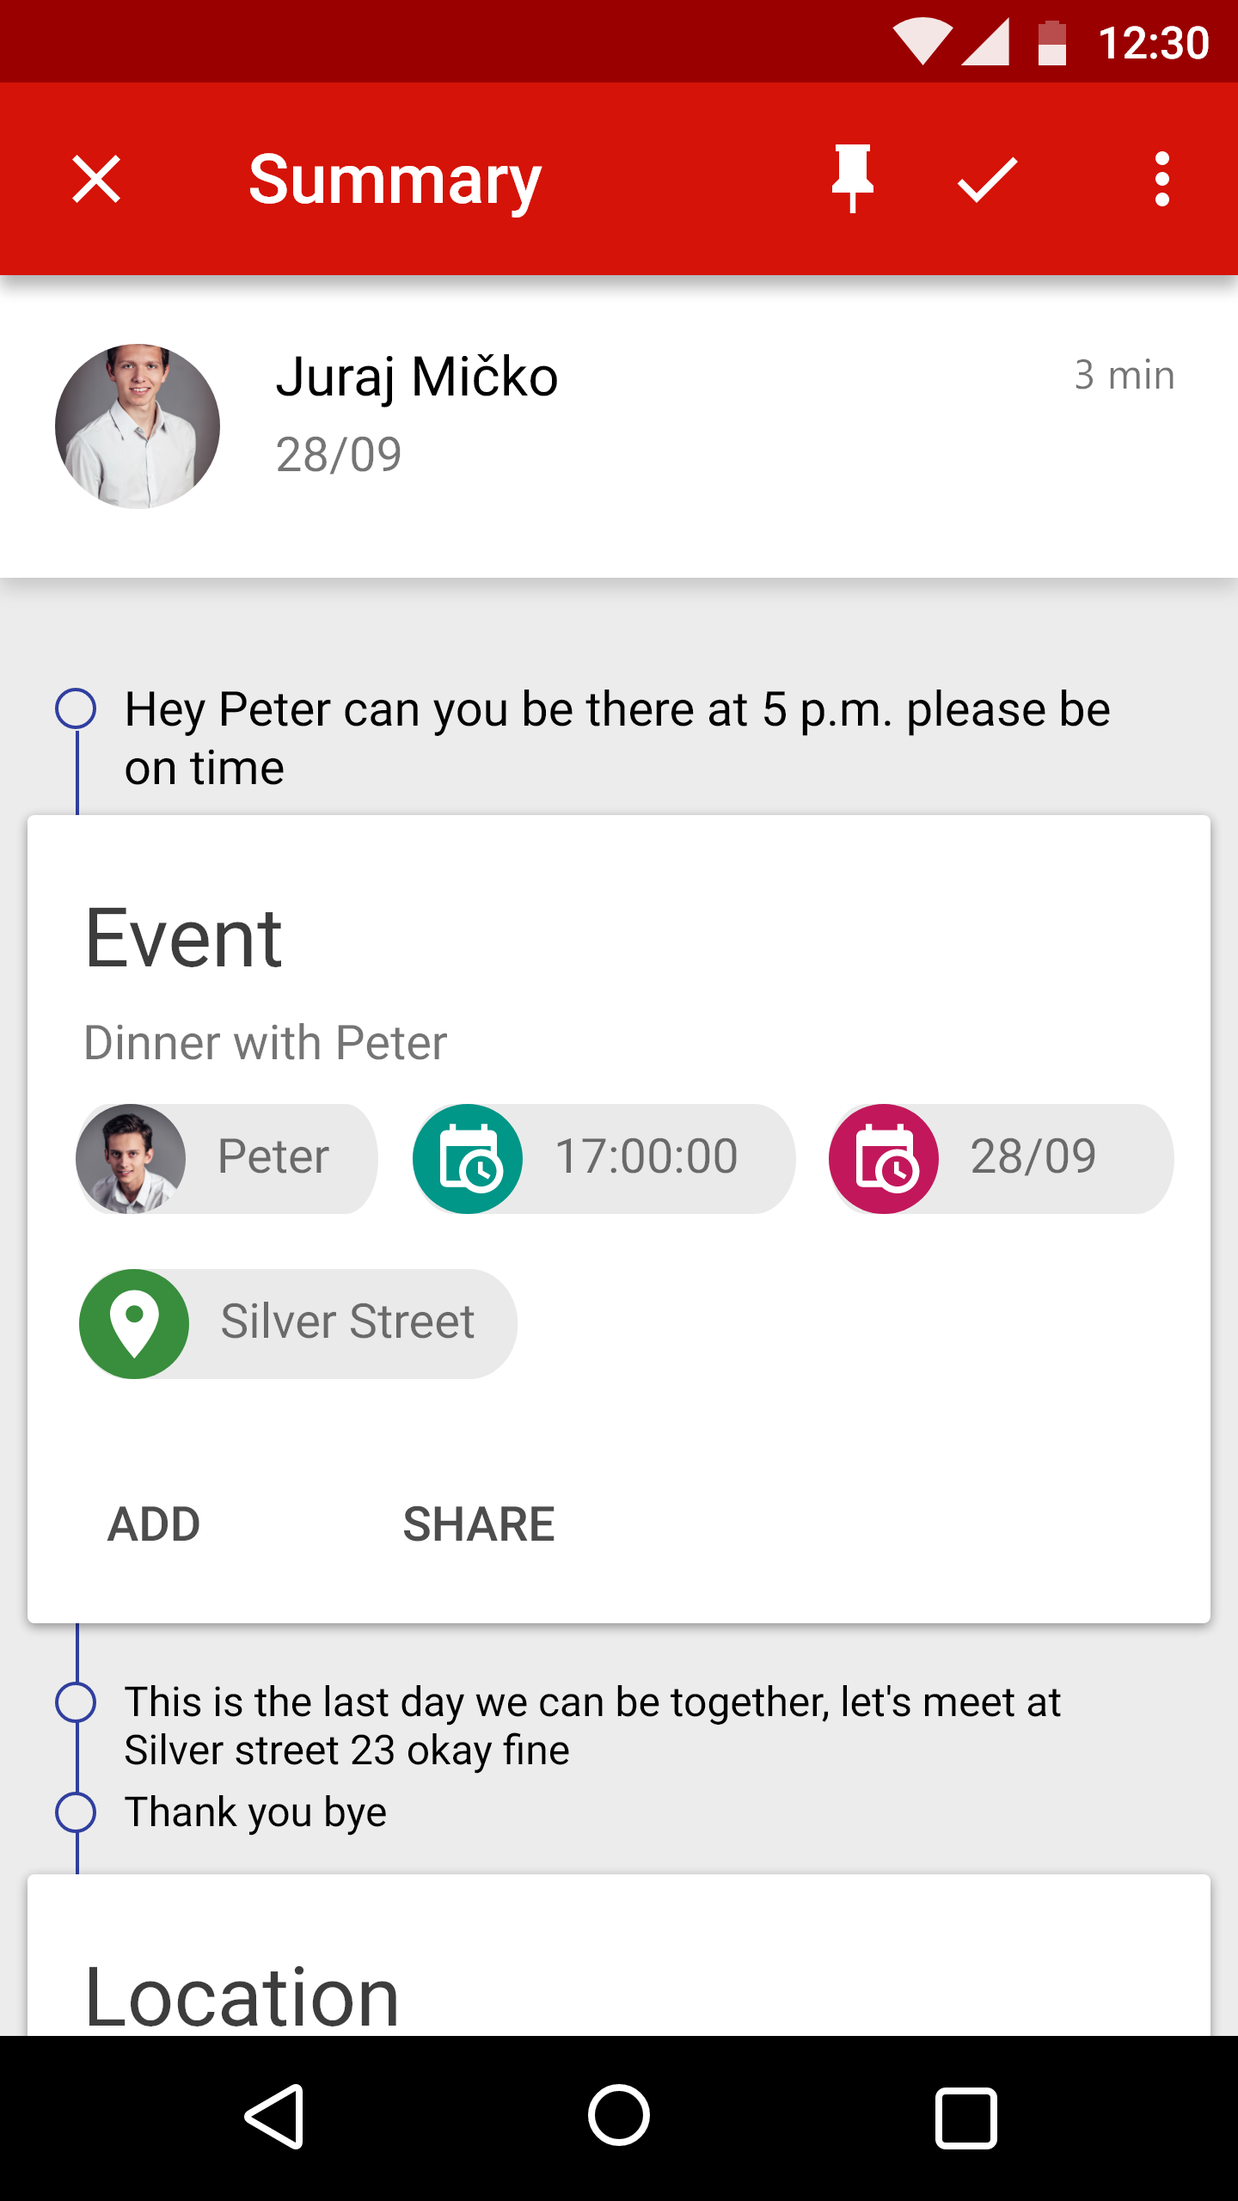
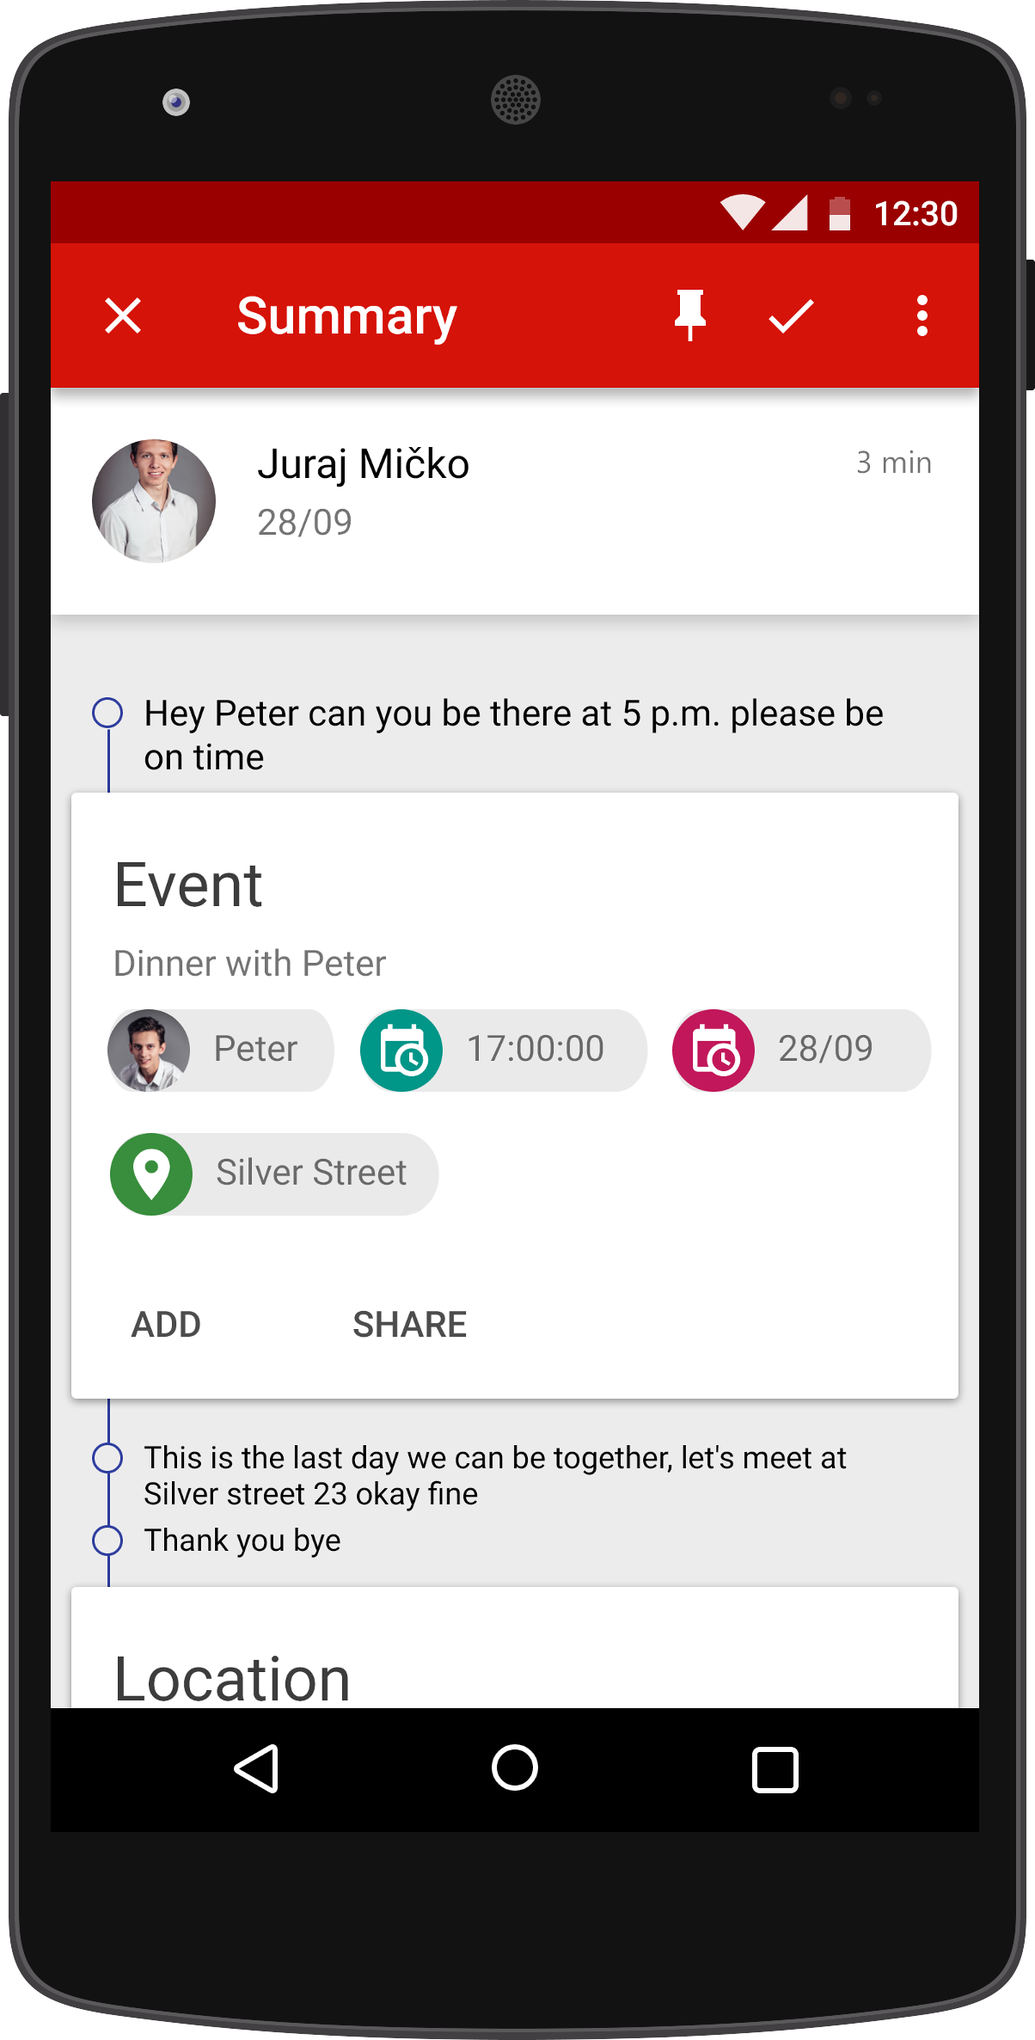
change color and replace activity mockup

diff --git a/css/new-age.min.css b/css/new-age.min.css
@@ -2,4 +2,4 @@
  * Start Bootstrap - New Age v4.0.0-beta (https://startbootstrap.com/template-overviews/new-age)
  * Copyright 2013-2017 Start Bootstrap
  * Licensed under MIT (https://github.com/BlackrockDigital/startbootstrap-new-age/blob/master/LICENSE)
- */body,html{width:100%;height:100%}body{font-family:Muli,Helvetica,Arial,sans-serif}a{color:#ff4c4c;-webkit-transition:all .35s;-moz-transition:all .35s;transition:all .35s}a:focus,a:hover{color:#ff1919}hr{max-width:100px;margin:25px auto 0;border-width:1px;border-color:rgba(34,34,34,.1)}hr.light{border-color:#fff}h1,h2,h3,h4,h5,h6{font-family:Catamaran,Helvetica,Arial,sans-serif;font-weight:200;letter-spacing:1px}p{font-size:18px;line-height:1.5;margin-bottom:20px}section{padding:100px 0}section h2{font-size:50px}#mainNav{border-color:rgba(34,34,34,.05);background-color:#fff;-webkit-transition:all .35s;-moz-transition:all .35s;transition:all .35s;font-family:Catamaran,Helvetica,Arial,sans-serif;font-weight:200;letter-spacing:1px}#mainNav .navbar-brand{color:#ff4c4c;font-family:Catamaran,Helvetica,Arial,sans-serif;font-weight:200;letter-spacing:1px}#mainNav .navbar-brand:focus,#mainNav .navbar-brand:hover{color:#ff1919}#mainNav .navbar-toggler{font-size:12px;padding:8px 10px;color:#222}#mainNav .navbar-nav>li>a{font-size:11px;font-family:Lato,Helvetica,Arial,sans-serif;letter-spacing:2px;text-transform:uppercase}#mainNav .navbar-nav>li>a.active{color:#ff4c4c!important;background-color:transparent}#mainNav .navbar-nav>li>a.active:hover{background-color:transparent}#mainNav .navbar-nav>li>a,#mainNav .navbar-nav>li>a:focus{color:#222}#mainNav .navbar-nav>li>a:focus:hover,#mainNav .navbar-nav>li>a:hover{color:#ff4c4c}@media (min-width:992px){#mainNav{border-color:transparent;background-color:transparent}#mainNav .navbar-brand{color:fade(white,70%)}#mainNav .navbar-brand:focus,#mainNav .navbar-brand:hover{color:#fff}#mainNav .navbar-nav>li>a,#mainNav .navbar-nav>li>a:focus{color:#fff}#mainNav .navbar-nav>li>a:focus:hover,#mainNav .navbar-nav>li>a:hover{color:#fff;font-weight:700}#mainNav.navbar-shrink{border-color:rgba(34,34,34,.1);background-color:#fff}#mainNav.navbar-shrink .navbar-brand{color:#222}#mainNav.navbar-shrink .navbar-brand:focus,#mainNav.navbar-shrink .navbar-brand:hover{color:#ff4c4c}#mainNav.navbar-shrink .navbar-nav>li>a,#mainNav.navbar-shrink .navbar-nav>li>a:focus{color:#222}#mainNav.navbar-shrink .navbar-nav>li>a:focus:hover,#mainNav.navbar-shrink .navbar-nav>li>a:hover{color:#ff4c4c}}header.masthead{position:relative;width:100%;padding-top:150px;padding-bottom:100px;color:#fff;background:#ff4c4c}header.masthead .header-content{max-width:500px;margin-bottom:100px;text-align:center}header.masthead .header-content h1{font-size:30px}header.masthead .device-container{max-width:325px;margin-right:auto;margin-left:auto}header.masthead .device-container .screen img{border-radius:3px}@media (min-width:992px){header.masthead{height:100vh;min-height:775px;padding-top:0;padding-bottom:0}header.masthead .header-content{margin-bottom:0;text-align:left}header.masthead .header-content h1{font-size:50px}header.masthead .device-container{max-width:325px}}section.download{position:relative;padding:150px 0}section.download h2{font-size:50px;margin-top:0}section.download .badges .badge-link{display:block;margin-bottom:25px}section.download .badges .badge-link:last-child{margin-bottom:0}section.download .badges .badge-link img{height:60px}@media (min-width:768px){section.download .badges .badge-link{display:inline-block;margin-bottom:0}}@media (min-width:768px){section.download h2{font-size:70px}}section.features .section-heading{margin-bottom:100px}section.features .section-heading h2{margin-top:0}section.features .section-heading p{margin-bottom:0}section.features .device-container,section.features .feature-item{max-width:325px;margin:0 auto}section.features .device-container{margin-bottom:100px}@media (min-width:992px){section.features .device-container{margin-bottom:0}}section.features .feature-item{padding-top:50px;padding-bottom:50px;text-align:center}section.features .feature-item h3{font-size:30px}section.features .feature-item i{font-size:80px;display:block;margin-bottom:15px;background:-webkit-linear-gradient(to left,#ff4c4c,#eff1F3);background:linear-gradient(to left,#ff4c4c,#eff1F3);-webkit-background-clip:text;-webkit-text-fill-color:transparent}section.cta{position:relative;padding:250px 0;background-image:url(../img/bg-cta.jpg);background-position:center;-webkit-background-size:cover;-moz-background-size:cover;-o-background-size:cover;background-size:cover}section.cta .cta-content{position:relative;z-index:1}section.cta .cta-content h2{font-size:50px;max-width:450px;margin-top:0;margin-bottom:25px;color:#fff}@media (min-width:768px){section.cta .cta-content h2{font-size:80px}}section.cta .overlay{position:absolute;top:0;left:0;width:100%;height:100%;background-color:rgba(0,0,0,.5)}section.story{position:relative;padding:250px 0;background-image:url(../img/bg-cta.jpg);background-position:center;-webkit-background-size:cover;-moz-background-size:cover;-o-background-size:cover;background-size:cover}section.story .story-content{position:relative;z-index:1}section.story .story-content p{color:#fff;float:left;max-width:450px;text-align:left}section.story .story-content h2{font-size:50px;max-width:450px;margin-top:0;margin-bottom:25px;color:#fff}@media (min-width:768px){section.story .story-content h2{font-size:80px}}section.story .overlay{position:absolute;top:0;left:0;width:100%;height:100%;background-color:rgba(0,0,0,.5)}section.contact{text-align:center}section.contact h2{margin-top:0;margin-bottom:25px}section.contact h2 i{color:#dd4b39}section.contact ul.list-social{margin-bottom:0}section.contact ul.list-social li a{font-size:40px;line-height:80px;display:block;width:80px;height:80px;color:#fff;border-radius:100%}section.contact ul.list-social li.social-twitter a{background-color:#1da1f2}section.contact ul.list-social li.social-twitter a:hover{background-color:#0d95e8}section.contact ul.list-social li.social-facebook a{background-color:#3b5998}section.contact ul.list-social li.social-facebook a:hover{background-color:#344e86}section.contact ul.list-social li.social-google-plus a{background-color:#dd4b39}section.contact ul.list-social li.social-google-plus a:hover{background-color:#d73925}footer{padding:25px 0;text-align:center;color:rgba(255,255,255,.3);background-color:#222}footer p{font-size:12px;margin:0}footer ul{margin-bottom:0}footer ul li a{font-size:12px;color:rgba(255,255,255,.3)}footer ul li a.active,footer ul li a:active,footer ul li a:focus,footer ul li a:hover{text-decoration:none}.bg-primary{background:#ff4c4c;background:-webkit-linear-gradient(#ff4c4c,#ff3333);background:linear-gradient(#ff4c4c,#ff3333);color:#fff}.text-primary{color:#ff4c4c}.no-gutter>[class*=col-]{padding-right:0;padding-left:0}.btn-outline{color:#fff;border:1px solid;border-color:#fff}.btn-outline.active,.btn-outline:active,.btn-outline:focus,.btn-outline:hover{color:#ff4c4c;border-color:#ff4c4c;background-color:#fff}.btn-fill{color:#000;border:1px solid;border-color:#ff4c4c}.btn-fill.active,.btn-fill:active,.btn-fill:focus,.btn-fill:hover{color:#fff;border-color:#ff4c4c;background-color:#ff4c4c}.btn{border-radius:300px;font-family:Lato,Helvetica,Arial,sans-serif;letter-spacing:2px;text-transform:uppercase}.btn-xl{font-size:11px;padding:15px 45px}
+ */body,html{width:100%;height:100%}body{font-family:Muli,Helvetica,Arial,sans-serif}a{color:#ef5350;-webkit-transition:all .35s;-moz-transition:all .35s;transition:all .35s}a:focus,a:hover{color:#eb2521}hr{max-width:100px;margin:25px auto 0;border-width:1px;border-color:rgba(34,34,34,.1)}hr.light{border-color:#fff}h1,h2,h3,h4,h5,h6{font-family:Catamaran,Helvetica,Arial,sans-serif;font-weight:200;letter-spacing:1px}p{font-size:18px;line-height:1.5;margin-bottom:20px}section{padding:100px 0}section h2{font-size:50px}#mainNav{border-color:rgba(34,34,34,.05);background-color:#fff;-webkit-transition:all .35s;-moz-transition:all .35s;transition:all .35s;font-family:Catamaran,Helvetica,Arial,sans-serif;font-weight:200;letter-spacing:1px}#mainNav .navbar-brand{color:#ef5350;font-family:Catamaran,Helvetica,Arial,sans-serif;font-weight:200;letter-spacing:1px}#mainNav .navbar-brand:focus,#mainNav .navbar-brand:hover{color:#eb2521}#mainNav .navbar-toggler{font-size:12px;padding:8px 10px;color:#222}#mainNav .navbar-nav>li>a{font-size:11px;font-family:Lato,Helvetica,Arial,sans-serif;letter-spacing:2px;text-transform:uppercase}#mainNav .navbar-nav>li>a.active{color:#ef5350!important;background-color:transparent}#mainNav .navbar-nav>li>a.active:hover{background-color:transparent}#mainNav .navbar-nav>li>a,#mainNav .navbar-nav>li>a:focus{color:#222}#mainNav .navbar-nav>li>a:focus:hover,#mainNav .navbar-nav>li>a:hover{color:#ef5350}@media (min-width:992px){#mainNav{border-color:transparent;background-color:transparent}#mainNav .navbar-brand{color:fade(white,70%)}#mainNav .navbar-brand:focus,#mainNav .navbar-brand:hover{color:#fff}#mainNav .navbar-nav>li>a,#mainNav .navbar-nav>li>a:focus{color:#fff}#mainNav .navbar-nav>li>a:focus:hover,#mainNav .navbar-nav>li>a:hover{color:#fff;font-weight:700}#mainNav.navbar-shrink{border-color:rgba(34,34,34,.1);background-color:#fff}#mainNav.navbar-shrink .navbar-brand{color:#222}#mainNav.navbar-shrink .navbar-brand:focus,#mainNav.navbar-shrink .navbar-brand:hover{color:#ef5350}#mainNav.navbar-shrink .navbar-nav>li>a,#mainNav.navbar-shrink .navbar-nav>li>a:focus{color:#222}#mainNav.navbar-shrink .navbar-nav>li>a:focus:hover,#mainNav.navbar-shrink .navbar-nav>li>a:hover{color:#ef5350}}header.masthead{position:relative;width:100%;padding-top:150px;padding-bottom:100px;color:#fff;background:#ef5350}header.masthead .header-content{max-width:500px;margin-bottom:100px;text-align:center}header.masthead .header-content h1{font-size:30px}header.masthead .device-container{max-width:325px;margin-right:auto;margin-left:auto}header.masthead .device-container .screen img{border-radius:3px}@media (min-width:992px){header.masthead{height:100vh;min-height:775px;padding-top:0;padding-bottom:0}header.masthead .header-content{margin-bottom:0;text-align:left}header.masthead .header-content h1{font-size:50px}header.masthead .device-container{max-width:325px}}section.download{position:relative;padding:150px 0}section.download h2{font-size:50px;margin-top:0}section.download .badges .badge-link{display:block;margin-bottom:25px}section.download .badges .badge-link:last-child{margin-bottom:0}section.download .badges .badge-link img{height:60px}@media (min-width:768px){section.download .badges .badge-link{display:inline-block;margin-bottom:0}}@media (min-width:768px){section.download h2{font-size:70px}}section.features .section-heading{margin-bottom:100px}section.features .section-heading h2{margin-top:0}section.features .section-heading p{margin-bottom:0}section.features .device-container,section.features .feature-item{max-width:325px;margin:0 auto}section.features .device-container{margin-bottom:100px}@media (min-width:992px){section.features .device-container{margin-bottom:0}}section.features .feature-item{padding-top:50px;padding-bottom:50px;text-align:center}section.features .feature-item h3{font-size:30px}section.features .feature-item i{font-size:80px;display:block;margin-bottom:15px;background:-webkit-linear-gradient(to left,#ef5350,#eff1F3);background:linear-gradient(to left,#ef5350,#eff1F3);-webkit-background-clip:text;-webkit-text-fill-color:transparent}section.cta{position:relative;padding:250px 0;background-image:url(../img/bg-cta.jpg);background-position:center;-webkit-background-size:cover;-moz-background-size:cover;-o-background-size:cover;background-size:cover}section.cta .cta-content{position:relative;z-index:1}section.cta .cta-content h2{font-size:50px;max-width:450px;margin-top:0;margin-bottom:25px;color:#fff}@media (min-width:768px){section.cta .cta-content h2{font-size:80px}}section.cta .overlay{position:absolute;top:0;left:0;width:100%;height:100%;background-color:rgba(0,0,0,.5)}section.story{position:relative;padding:250px 0;background-image:url(../img/bg-cta.jpg);background-position:center;-webkit-background-size:cover;-moz-background-size:cover;-o-background-size:cover;background-size:cover}section.story .story-content{position:relative;z-index:1}section.story .story-content p{color:#fff;float:left;max-width:450px;text-align:left}section.story .story-content h2{font-size:50px;max-width:450px;margin-top:0;margin-bottom:25px;color:#fff}@media (min-width:768px){section.story .story-content h2{font-size:80px}}section.story .overlay{position:absolute;top:0;left:0;width:100%;height:100%;background-color:rgba(0,0,0,.5)}section.contact{text-align:center}section.contact h2{margin-top:0;margin-bottom:25px}section.contact h2 i{color:#dd4b39}section.contact ul.list-social{margin-bottom:0}section.contact ul.list-social li a{font-size:40px;line-height:80px;display:block;width:80px;height:80px;color:#fff;border-radius:100%}section.contact ul.list-social li.social-twitter a{background-color:#1da1f2}section.contact ul.list-social li.social-twitter a:hover{background-color:#0d95e8}section.contact ul.list-social li.social-facebook a{background-color:#3b5998}section.contact ul.list-social li.social-facebook a:hover{background-color:#344e86}section.contact ul.list-social li.social-google-plus a{background-color:#dd4b39}section.contact ul.list-social li.social-google-plus a:hover{background-color:#d73925}footer{padding:25px 0;text-align:center;color:rgba(255,255,255,.3);background-color:#222}footer p{font-size:12px;margin:0}footer ul{margin-bottom:0}footer ul li a{font-size:12px;color:rgba(255,255,255,.3)}footer ul li a.active,footer ul li a:active,footer ul li a:focus,footer ul li a:hover{text-decoration:none}.bg-primary{background:#ef5350;background:-webkit-linear-gradient(#ef5350,#ed3c39);background:linear-gradient(#ef5350,#ed3c39);color:#fff}.text-primary{color:#ef5350}.no-gutter>[class*=col-]{padding-right:0;padding-left:0}.btn-outline{color:#fff;border:1px solid;border-color:#fff}.btn-outline.active,.btn-outline:active,.btn-outline:focus,.btn-outline:hover{color:#ef5350;border-color:#ef5350;background-color:#fff}.btn-fill{color:#000;border:1px solid;border-color:#ef5350}.btn-fill.active,.btn-fill:active,.btn-fill:focus,.btn-fill:hover{color:#fff;border-color:#ef5350;background-color:#ef5350}.btn{border-radius:300px;font-family:Lato,Helvetica,Arial,sans-serif;letter-spacing:2px;text-transform:uppercase}.btn-xl{font-size:11px;padding:15px 45px}

diff --git a/css/new-age.css b/css/new-age.css
@@ -12,12 +12,12 @@ body {
   font-family: 'Muli', 'Helvetica', 'Arial', 'sans-serif'; }
 
 a {
-  color: #FF4C4C;
+  color: #ef5350;
   -webkit-transition: all .35s;
   -moz-transition: all .35s;
   transition: all .35s; }
   a:hover, a:focus {
-    color: #ff1919; }
+    color: #eb2521; }
 
 hr {
   max-width: 100px;
@@ -58,12 +58,12 @@ section {
   font-weight: 200;
   letter-spacing: 1px; }
   #mainNav .navbar-brand {
-    color: #FF4C4C;
+    color: #ef5350;
     font-family: 'Catamaran', 'Helvetica', 'Arial', 'sans-serif';
     font-weight: 200;
     letter-spacing: 1px; }
     #mainNav .navbar-brand:hover, #mainNav .navbar-brand:focus {
-      color: #ff1919; }
+      color: #eb2521; }
   #mainNav .navbar-toggler {
     font-size: 12px;
     padding: 8px 10px;
@@ -74,7 +74,7 @@ section {
     letter-spacing: 2px;
     text-transform: uppercase; }
     #mainNav .navbar-nav > li > a.active {
-      color: #FF4C4C !important;
+      color: #ef5350 !important;
       background-color: transparent; }
       #mainNav .navbar-nav > li > a.active:hover {
         background-color: transparent; }
@@ -83,7 +83,7 @@ section {
     color: #222222; }
     #mainNav .navbar-nav > li > a:hover,
     #mainNav .navbar-nav > li > a:focus:hover {
-      color: #FF4C4C; }
+      color: #ef5350; }
   @media (min-width: 992px) {
     #mainNav {
       border-color: transparent;
@@ -105,13 +105,13 @@ section {
         #mainNav.navbar-shrink .navbar-brand {
           color: #222222; }
           #mainNav.navbar-shrink .navbar-brand:hover, #mainNav.navbar-shrink .navbar-brand:focus {
-            color: #FF4C4C; }
+            color: #ef5350; }
         #mainNav.navbar-shrink .navbar-nav > li > a,
         #mainNav.navbar-shrink .navbar-nav > li > a:focus {
           color: #222222; }
           #mainNav.navbar-shrink .navbar-nav > li > a:hover,
           #mainNav.navbar-shrink .navbar-nav > li > a:focus:hover {
-            color: #FF4C4C; } }
+            color: #ef5350; } }
 
 header.masthead {
   position: relative;
@@ -119,7 +119,7 @@ header.masthead {
   padding-top: 150px;
   padding-bottom: 100px;
   color: white;
-  background: #FF4C4C; }
+  background: #ef5350; }
   header.masthead .header-content {
     max-width: 500px;
     margin-bottom: 100px;
@@ -195,8 +195,8 @@ section.features .feature-item {
     font-size: 80px;
     display: block;
     margin-bottom: 15px;
-    background: -webkit-linear-gradient(to left, #FF4C4C, #EFF1F3);
-    background: linear-gradient(to left, #FF4C4C, #EFF1F3);
+    background: -webkit-linear-gradient(to left, #ef5350, #EFF1F3);
+    background: linear-gradient(to left, #ef5350, #EFF1F3);
     -webkit-background-clip: text;
     -webkit-text-fill-color: transparent; }
 
@@ -310,13 +310,13 @@ footer {
         text-decoration: none; }
 
 .bg-primary {
-  background: #FF4C4C;
-  background: -webkit-linear-gradient(#FF4C4C, #ff3333);
-  background: linear-gradient(#FF4C4C, #ff3333);
+  background: #ef5350;
+  background: -webkit-linear-gradient(#ef5350, #ed3c39);
+  background: linear-gradient(#ef5350, #ed3c39);
   color: white; }
 
 .text-primary {
-  color: #FF4C4C; }
+  color: #ef5350; }
 
 .no-gutter > [class*='col-'] {
   padding-right: 0;
@@ -327,18 +327,18 @@ footer {
   border: 1px solid;
   border-color: white; }
   .btn-outline:hover, .btn-outline:focus, .btn-outline:active, .btn-outline.active {
-    color: #FF4C4C;
-    border-color: #FF4C4C;
+    color: #ef5350;
+    border-color: #ef5350;
     background-color: white; }
 
 .btn-fill {
   color: black;
   border: 1px solid;
-  border-color: #FF4C4C; }
+  border-color: #ef5350; }
   .btn-fill:hover, .btn-fill:focus, .btn-fill:active, .btn-fill.active {
     color: white;
-    border-color: #FF4C4C;
-    background-color: #FF4C4C; }
+    border-color: #ef5350;
+    background-color: #ef5350; }
 
 .btn {
   border-radius: 300px;

diff --git a/index.html b/index.html
@@ -98,17 +98,7 @@
         <div class="row">
           <div class="col-lg-4 my-auto">
             <div class="device-container">
-              <div class="device-mockup galaxy_s5 portrait black">
-                <div class="device">
-                  <div class="screen">
-                    <!-- Demo image for screen mockup, you can put an image here, some HTML, an animation, video, or anything else! -->
-                    <img src="img/call-activity.png" class="img-fluid" alt="">
-                  </div>
-                  <div class="button">
-                    <!-- You can hook the "home button" to some JavaScript events or just remove it -->
-                  </div>
-                </div>
-              </div>
+                <img src="img/call-activity.png" class="img-fluid" alt="">
             </div>
           </div>
           <div class="col-lg-8 my-auto">

diff --git a/scss/_variables.scss b/scss/_variables.scss
@@ -2,8 +2,8 @@
 
 // Gray and Brand Colors for use across theme
 
-$theme-primary:    #FF4C4C;
-$theme-secondary:  #FF4C4C;
+$theme-primary:    #ef5350;
+$theme-secondary:  #ef5350;
 $theme-tertiary:   #EFF1F3;
 
 $gray-base:        #000;
